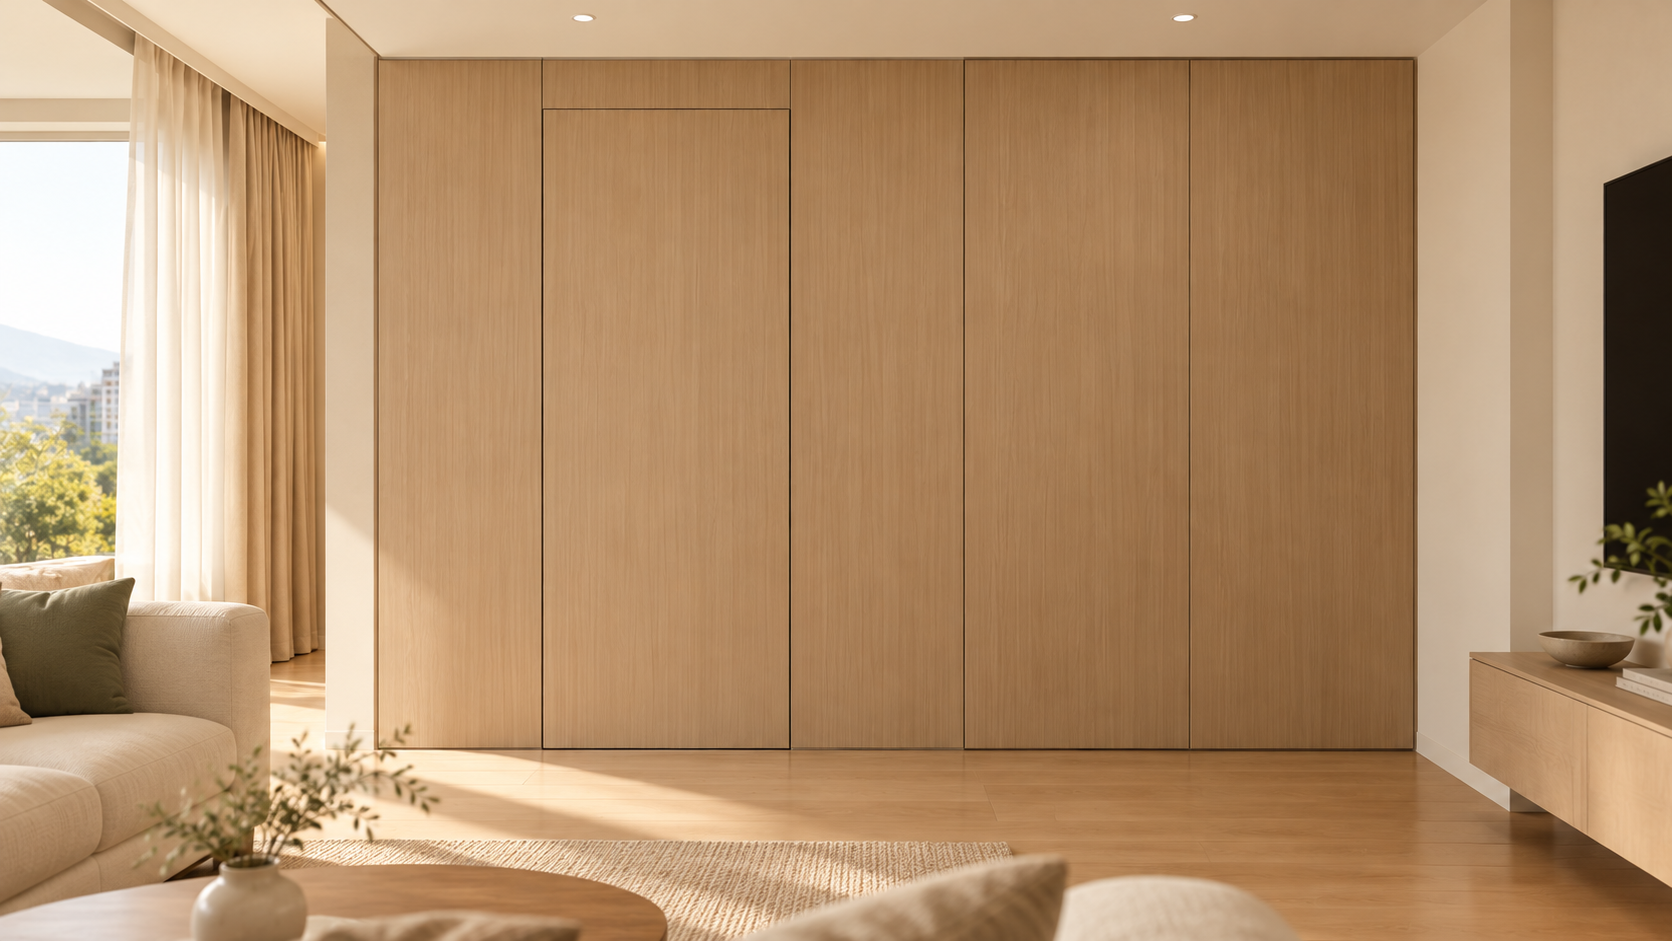
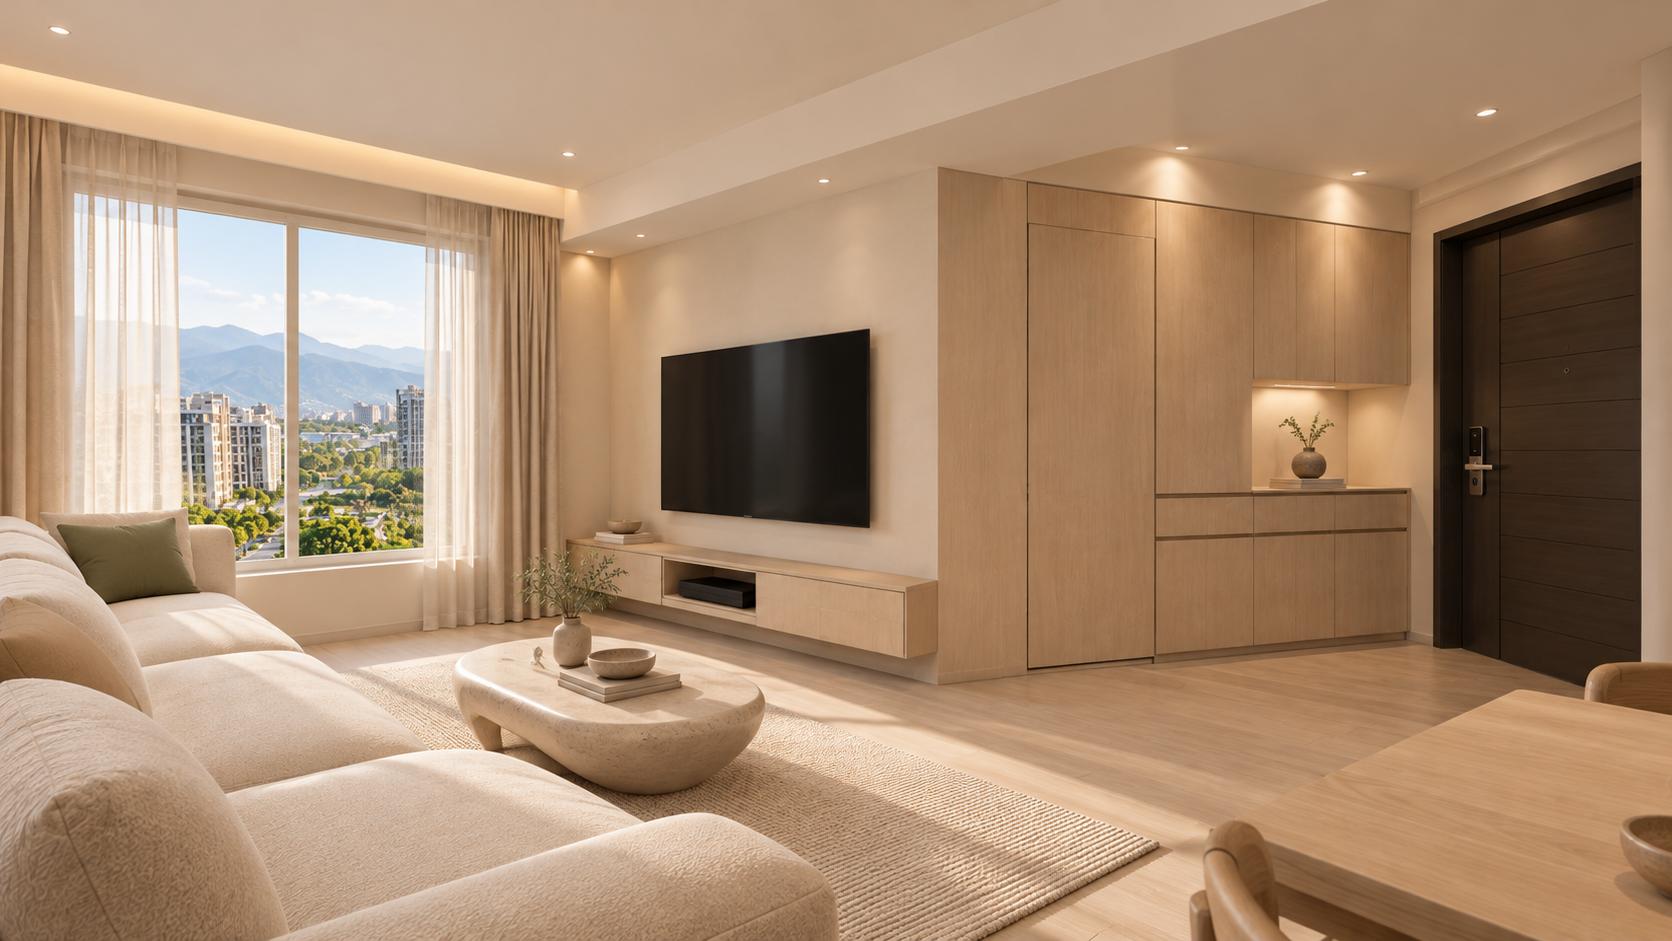
Align living room render with modeled layout

diff --git a/index.html b/index.html
@@ -1,1 +1,1 @@
-<!doctype html><html lang="zh-Hant"><head><link rel="icon" href="data:,"><meta charset="utf-8"><meta name="viewport" content="width=device-width,initial-scale=1"><title>B1｜暖木日常</title><link rel="stylesheet" href="studio.css"></head><body><header><a class="brand" href="#">B1 <span>暖木日常</span></a><span class="edition">INTERIOR STUDY / 02</span><nav><button data-mode="3d" class="active">立體空間</button><button data-mode="plan">配置平面</button></nav></header><main><aside><p class="overline">SCANDINAVIAN LIVING</p><h1>把生活，<br>留給光與木。</h1><p class="intro">奶油白、淺橡木與亞麻。讓收藏有位置，讓工作與休息各自安定。</p><div class="rooms"><button data-room="all" class="active">01　全室鳥瞰 <span>↗</span></button><button data-room="living">02　客廳與展示 <span>↗</span></button><button data-room="media">03　影音工作室 <span>↗</span></button><button data-room="entry">04　客廳隱藏門 <span>↗</span></button><button data-room="laundry">05　陽台洗衣區 <span>↗</span></button></div><div class="detail"><p class="overline" id="subtitle">以 B1 戶圖面為基礎</p><h2 id="title">全室配置</h2><p id="description">保留原圖的三房、客餐廳與陽台分區。選擇左側空間，查看專屬配置與視角。</p></div><div class="palette"><i style="background:#e9e2d3"></i><i style="background:#c39b6d"></i><i style="background:#8b977f"></i><i style="background:#baa48d"></i><i style="background:#4d514b"></i><span>白橡木 / 亞麻 / 霧面礦物</span></div></aside><section class="workspace"><div class="toolbar"><label><input id="walls" type="checkbox" checked> 剖面牆</label><label><input id="ceiling" type="checkbox"> 天花</label><label><input id="night" type="checkbox"> 夜間情境</label><button id="reset">重設視角</button></div><div id="viewport"><canvas id="scene"></canvas><svg id="plan" viewBox="200 0 1100 900" hidden aria-label="B1 DWG 平面配置"></svg><div class="view-label"><b id="viewname">全室鳥瞰</b><span>拖曳旋轉 · 滾輪縮放</span></div></div><footer><span>原圖牆線＋提案家具 · 公分比例建模</span><span>天花淨高暫定 260 cm</span></footer><div class="notes"><article><b>220 cm 已購沙發</b><p>木框與亞麻坐墊為外觀示意，保留指定長度；實際面料與深度待產品規格核對。</p></article><article><b>60 cm 窗邊臥榻</b><p>影音室以窗下收納臥榻、升降桌及展示牆整合，保留中央通行。</p></article><article><b>整合式智慧照明</b><p>全室平釘天花、展示燈帶與窗簾預留；夜間模式可預覽暖光氛圍。</p></article></div><p class="status">設計提案：牆線取自 DWG 的可解析圖元，尚未展開圖塊；家具位置、隱藏門做法、設備尺寸與完成面淨高須進一步核對。此版為即時 3D 模型，非完工實景。</p></section></main><script src="three.min.js"></script><script src="b1-plan-data.js"></script><script src="studio.js?v=20261024-layout5"></script></body></html>
+<!doctype html><html lang="zh-Hant"><head><link rel="icon" href="data:,"><meta charset="utf-8"><meta name="viewport" content="width=device-width,initial-scale=1"><title>B1｜暖木日常</title><link rel="stylesheet" href="studio.css"></head><body><header><a class="brand" href="#">B1 <span>暖木日常</span></a><span class="edition">INTERIOR STUDY / 02</span><nav><button data-mode="3d" class="active">立體空間</button><button data-mode="plan">配置平面</button></nav></header><main><aside><p class="overline">SCANDINAVIAN LIVING</p><h1>把生活，<br>留給光與木。</h1><p class="intro">奶油白、淺橡木與亞麻。讓收藏有位置，讓工作與休息各自安定。</p><div class="rooms"><button data-room="all" class="active">01　全室鳥瞰 <span>↗</span></button><button data-room="living">02　客廳與展示 <span>↗</span></button><button data-room="media">03　影音工作室 <span>↗</span></button><button data-room="entry">04　客廳隱藏門 <span>↗</span></button><button data-room="laundry">05　陽台洗衣區 <span>↗</span></button></div><div class="detail"><p class="overline" id="subtitle">以 B1 戶圖面為基礎</p><h2 id="title">全室配置</h2><p id="description">保留原圖的三房、客餐廳與陽台分區。選擇左側空間，查看專屬配置與視角。</p></div><div class="palette"><i style="background:#e9e2d3"></i><i style="background:#c39b6d"></i><i style="background:#8b977f"></i><i style="background:#baa48d"></i><i style="background:#4d514b"></i><span>白橡木 / 亞麻 / 霧面礦物</span></div></aside><section class="workspace"><div class="toolbar"><label><input id="walls" type="checkbox" checked> 剖面牆</label><label><input id="ceiling" type="checkbox"> 天花</label><label><input id="night" type="checkbox"> 夜間情境</label><button id="reset">重設視角</button></div><div id="viewport"><canvas id="scene"></canvas><svg id="plan" viewBox="200 0 1100 900" hidden aria-label="B1 DWG 平面配置"></svg><div class="view-label"><b id="viewname">全室鳥瞰</b><span>拖曳旋轉 · 滾輪縮放</span></div></div><footer><span>原圖牆線＋提案家具 · 公分比例建模</span><span>天花淨高暫定 260 cm</span></footer><div class="notes"><article><b>220 cm 已購沙發</b><p>木框與亞麻坐墊為外觀示意，保留指定長度；實際面料與深度待產品規格核對。</p></article><article><b>60 cm 窗邊臥榻</b><p>影音室以窗下收納臥榻、升降桌及展示牆整合，保留中央通行。</p></article><article><b>整合式智慧照明</b><p>全室平釘天花、展示燈帶與窗簾預留；夜間模式可預覽暖光氛圍。</p></article></div><p class="status">設計提案：牆線取自 DWG 的可解析圖元，尚未展開圖塊；家具位置、隱藏門做法、設備尺寸與完成面淨高須進一步核對。此版為即時 3D 模型，非完工實景。</p></section></main><script src="three.min.js"></script><script src="b1-plan-data.js"></script><script src="studio.js?v=20261024-layout6"></script></body></html>

diff --git a/nordic-studio.html b/nordic-studio.html
@@ -1,1 +1,1 @@
-<!doctype html><html lang="zh-Hant"><head><link rel="icon" href="data:,"><meta charset="utf-8"><meta name="viewport" content="width=device-width,initial-scale=1"><title>B1｜暖木日常</title><link rel="stylesheet" href="studio.css"></head><body><header><a class="brand" href="#">B1 <span>暖木日常</span></a><span class="edition">INTERIOR STUDY / 02</span><nav><button data-mode="3d" class="active">立體空間</button><button data-mode="plan">配置平面</button></nav></header><main><aside><p class="overline">SCANDINAVIAN LIVING</p><h1>把生活，<br>留給光與木。</h1><p class="intro">奶油白、淺橡木與亞麻。讓收藏有位置，讓工作與休息各自安定。</p><div class="rooms"><button data-room="all" class="active">01　全室鳥瞰 <span>↗</span></button><button data-room="living">02　客廳與展示 <span>↗</span></button><button data-room="media">03　影音工作室 <span>↗</span></button><button data-room="entry">04　客廳隱藏門 <span>↗</span></button><button data-room="laundry">05　陽台洗衣區 <span>↗</span></button></div><div class="detail"><p class="overline" id="subtitle">以 B1 戶圖面為基礎</p><h2 id="title">全室配置</h2><p id="description">保留原圖的三房、客餐廳與陽台分區。選擇左側空間，查看專屬配置與視角。</p></div><div class="palette"><i style="background:#e9e2d3"></i><i style="background:#c39b6d"></i><i style="background:#8b977f"></i><i style="background:#baa48d"></i><i style="background:#4d514b"></i><span>白橡木 / 亞麻 / 霧面礦物</span></div></aside><section class="workspace"><div class="toolbar"><label><input id="walls" type="checkbox" checked> 剖面牆</label><label><input id="ceiling" type="checkbox"> 天花</label><label><input id="night" type="checkbox"> 夜間情境</label><button id="reset">重設視角</button></div><div id="viewport"><canvas id="scene"></canvas><svg id="plan" viewBox="200 0 1100 900" hidden aria-label="B1 DWG 平面配置"></svg><div class="view-label"><b id="viewname">全室鳥瞰</b><span>拖曳旋轉 · 滾輪縮放</span></div></div><footer><span>原圖牆線＋提案家具 · 公分比例建模</span><span>天花淨高暫定 260 cm</span></footer><div class="notes"><article><b>220 cm 已購沙發</b><p>木框與亞麻坐墊為外觀示意，保留指定長度；實際面料與深度待產品規格核對。</p></article><article><b>60 cm 窗邊臥榻</b><p>影音室以窗下收納臥榻、升降桌及展示牆整合，保留中央通行。</p></article><article><b>整合式智慧照明</b><p>全室平釘天花、展示燈帶與窗簾預留；夜間模式可預覽暖光氛圍。</p></article></div><p class="status">設計提案：牆線取自 DWG 的可解析圖元，尚未展開圖塊；家具位置、隱藏門做法、設備尺寸與完成面淨高須進一步核對。此版為即時 3D 模型，非完工實景。</p></section></main><script src="three.min.js"></script><script src="b1-plan-data.js"></script><script src="studio.js?v=20261024-layout5"></script></body></html>
+<!doctype html><html lang="zh-Hant"><head><link rel="icon" href="data:,"><meta charset="utf-8"><meta name="viewport" content="width=device-width,initial-scale=1"><title>B1｜暖木日常</title><link rel="stylesheet" href="studio.css"></head><body><header><a class="brand" href="#">B1 <span>暖木日常</span></a><span class="edition">INTERIOR STUDY / 02</span><nav><button data-mode="3d" class="active">立體空間</button><button data-mode="plan">配置平面</button></nav></header><main><aside><p class="overline">SCANDINAVIAN LIVING</p><h1>把生活，<br>留給光與木。</h1><p class="intro">奶油白、淺橡木與亞麻。讓收藏有位置，讓工作與休息各自安定。</p><div class="rooms"><button data-room="all" class="active">01　全室鳥瞰 <span>↗</span></button><button data-room="living">02　客廳與展示 <span>↗</span></button><button data-room="media">03　影音工作室 <span>↗</span></button><button data-room="entry">04　客廳隱藏門 <span>↗</span></button><button data-room="laundry">05　陽台洗衣區 <span>↗</span></button></div><div class="detail"><p class="overline" id="subtitle">以 B1 戶圖面為基礎</p><h2 id="title">全室配置</h2><p id="description">保留原圖的三房、客餐廳與陽台分區。選擇左側空間，查看專屬配置與視角。</p></div><div class="palette"><i style="background:#e9e2d3"></i><i style="background:#c39b6d"></i><i style="background:#8b977f"></i><i style="background:#baa48d"></i><i style="background:#4d514b"></i><span>白橡木 / 亞麻 / 霧面礦物</span></div></aside><section class="workspace"><div class="toolbar"><label><input id="walls" type="checkbox" checked> 剖面牆</label><label><input id="ceiling" type="checkbox"> 天花</label><label><input id="night" type="checkbox"> 夜間情境</label><button id="reset">重設視角</button></div><div id="viewport"><canvas id="scene"></canvas><svg id="plan" viewBox="200 0 1100 900" hidden aria-label="B1 DWG 平面配置"></svg><div class="view-label"><b id="viewname">全室鳥瞰</b><span>拖曳旋轉 · 滾輪縮放</span></div></div><footer><span>原圖牆線＋提案家具 · 公分比例建模</span><span>天花淨高暫定 260 cm</span></footer><div class="notes"><article><b>220 cm 已購沙發</b><p>木框與亞麻坐墊為外觀示意，保留指定長度；實際面料與深度待產品規格核對。</p></article><article><b>60 cm 窗邊臥榻</b><p>影音室以窗下收納臥榻、升降桌及展示牆整合，保留中央通行。</p></article><article><b>整合式智慧照明</b><p>全室平釘天花、展示燈帶與窗簾預留；夜間模式可預覽暖光氛圍。</p></article></div><p class="status">設計提案：牆線取自 DWG 的可解析圖元，尚未展開圖塊；家具位置、隱藏門做法、設備尺寸與完成面淨高須進一步核對。此版為即時 3D 模型，非完工實景。</p></section></main><script src="three.min.js"></script><script src="b1-plan-data.js"></script><script src="studio.js?v=20261024-layout6"></script></body></html>

diff --git a/studio-home.js b/studio-home.js
@@ -112,7 +112,7 @@
   const capture=document.createElement('button');capture.textContent='儲存 3D 視角';capture.title='將目前即時渲染儲存為 PNG';capture.onclick=()=>{const link=document.createElement('a');link.download=`B1-${selected}-3d-render.png`;link.href=canvas.toDataURL('image/png');link.click();};document.querySelector('.toolbar').append(capture);
   // Curated photoreal render gallery: these are high-detail design views, while
   // the canvas above remains the measured interactive model.
-  const premiumRenders={living:['客廳','renders/living-premium.png'],entry:['客廳隱藏門櫃牆','renders/hidden-door-premium.png?v=20261024-layout2'],kitchen:['餐廚','renders/kitchen-premium.png?v=20261024-layout5'],master:['主臥','renders/master-premium.png?v=20261024-layout2'],media:['多功能室','renders/media-premium.png?v=20261024-layout2'],guest:['次臥','renders/guest-premium.png?v=20261024-layout2'],bath:['客用衛浴','renders/bath-premium.png?v=20261024-layout3'],ensuite:['主臥衛浴','renders/ensuite-premium.png?v=20261024-layout2'],laundry:['洗衣陽台','renders/laundry-premium.png?v=20261024-layout3']};
+  const premiumRenders={living:['客廳','renders/living-premium.png'],entry:['客廳全景（含客衛隱藏門）','renders/hidden-door-premium.png?v=20261024-layout3'],kitchen:['餐廚','renders/kitchen-premium.png?v=20261024-layout5'],master:['主臥','renders/master-premium.png?v=20261024-layout2'],media:['多功能室','renders/media-premium.png?v=20261024-layout2'],guest:['次臥','renders/guest-premium.png?v=20261024-layout2'],bath:['客用衛浴','renders/bath-premium.png?v=20261024-layout3'],ensuite:['主臥衛浴','renders/ensuite-premium.png?v=20261024-layout2'],laundry:['洗衣陽台','renders/laundry-premium.png?v=20261024-layout3']};
   const gallery=document.createElement('section');gallery.className='render-gallery';gallery.innerHTML='<div class="render-gallery__head"><div><p class="overline">PREMIUM RENDER COLLECTION</p><b>高級空間渲染</b></div><label>選擇空間 <select aria-label="選擇高級渲染空間"></select></label></div><figure><img alt="高級室內設計渲染"><figcaption></figcaption></figure>';
   const gallerySelect=gallery.querySelector('select'),galleryImage=gallery.querySelector('img'),galleryCaption=gallery.querySelector('figcaption');
   for(const [key,[label]] of Object.entries(premiumRenders)){const option=document.createElement('option');option.value=key;option.textContent=label;gallerySelect.append(option);}

diff --git a/studio-finishes.js b/studio-finishes.js
@@ -178,5 +178,5 @@
     const importMap=document.createElement('script');importMap.type='importmap';importMap.textContent='{"imports":{"three":"https://cdn.jsdelivr.net/npm/three@0.160.1/build/three.module.js"}}';document.head.append(importMap);
     const loaderModule=document.createElement('script');loaderModule.type='module';loaderModule.textContent="import { GLTFLoader } from 'https://cdn.jsdelivr.net/npm/three@0.160.1/examples/jsm/loaders/GLTFLoader.js'; window.B1_GLTFLoader=GLTFLoader; window.dispatchEvent(new Event('b1-gltf-loader-ready'));";document.head.append(loaderModule);
   }
-  const homeScript=document.createElement('script');homeScript.src='studio-home.js?v=20261024-layout5';document.head.append(homeScript);
+  const homeScript=document.createElement('script');homeScript.src='studio-home.js?v=20261024-layout6';document.head.append(homeScript);
 })();

diff --git a/studio-detail.js b/studio-detail.js
@@ -62,5 +62,5 @@
   configs.living.text='依參考圖調整淡橡木、奶油色連續電視立面、櫃底與展示層板暖光。可用滑鼠轉頭、WASD行走，或用小地圖換位置。';
   configs.entry.text='以客廳面向浴室門：右手側下方為掃地機器人；左手側為掃具高櫃及上方浴室用品開口。原機器人位置至大門旁改為130 cm連續工作平台，高94 cm，上方開放76 cm，搭配燈帶與上櫃。';
   if(new URLSearchParams(location.search).has('realistic')){renderButton.click();}
-  const finishScript=document.createElement('script');finishScript.src='studio-finishes.js?v=20261024-home';document.head.append(finishScript);
+  const finishScript=document.createElement('script');finishScript.src='studio-finishes.js?v=20261024-layout6';document.head.append(finishScript);
 })();

diff --git a/UPGRADE.md b/UPGRADE.md
@@ -93,4 +93,4 @@ iPhone/Android hardware validation. Publish existing Pages repo and refresh loca
 - Replace the laundry placeholder with LG WD-S15NDB geometry at 65 x 64.5 x 95 cm. Set its final orientation to 360 degrees (270 + 90), equivalent to the original inward-facing direction, and update the high-resolution balcony render.
 - Kitchen render and 3D specification use the Panasonic NR-D505XGS-W cloud-rock white four-door refrigerator (72.1 × 69.5 × 183.4 cm), with the cooktop on the left and sink on the right.
 - Recreate the kitchen render against Panasonic's official NR-D505XGS-W product image: two upper hinged doors (asymmetric split) and two full-width drawers, in white stone-glass finish.
-- Add a living-room-facing render of the continuous storage wall and flush guest-bath hidden door; the hidden door itself remains interactable in the measured model.
+- Add a living-room-wide view grounded in the 3D model: exterior window, main entry, perpendicular TV wall, and the short guest-bath hidden-door storage run in their modeled positions. Keep the guest-bath hidden door interactable in the measured model.
